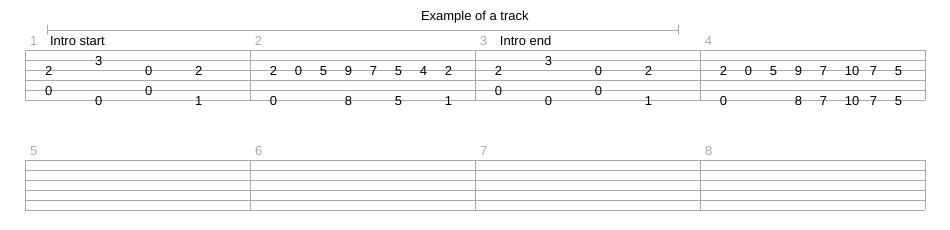
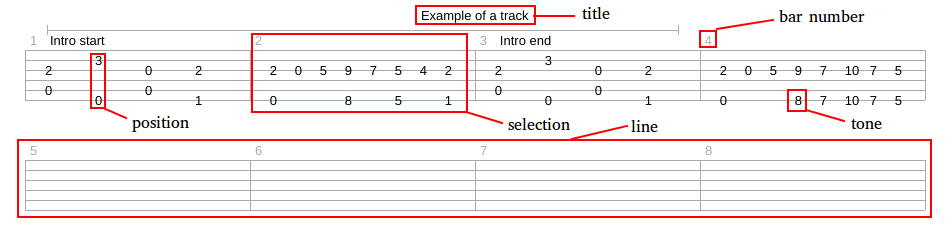
Finished readme, added annotations to the rest of example tracks

diff --git a/README.md b/README.md
@@ -6,10 +6,10 @@ Usage: `python GuitarTabs.py`
 Tabs are displayed in a grid with fixed width. 
 
 <div align="center">
-  <img src="http://i.imgur.com/S0wQh7f.png"><br><br>
+  <img src="https://raw.githubusercontent.com/mathooo/GuitarTabs/master/pics/front.png"><br><br>
 </div>
 
-```
+```perl
 0/5.2/3 - 3/2.0/6 - 0/3.0/5 - 2/3.1/6 #! Intro start
 2/3.0/6 0/3 5/3 9/3.8/6 7/3 5/3.5/6 4/3 2/3.1/6
 0/5.2/3 - 3/2.0/6 - 0/3.0/5 - 2/3.1/6 #? Intro end
